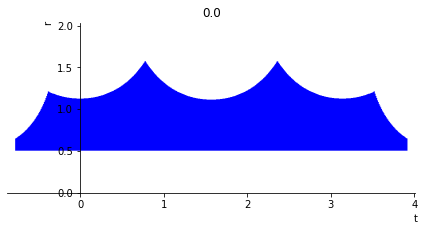
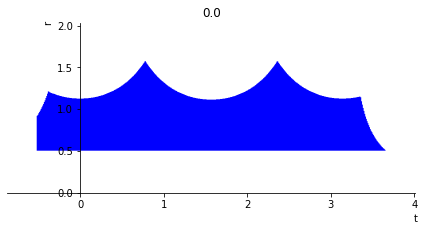
update to abs encoders, homing limit, ratios

Changed region(s): [[0.8278, 0.3939, 0.9811, 0.6667], [0.0307, 0.5152, 0.092, 0.6667]]

diff --git a/src/main/java/frc/robot/subsystems/ArmS.java b/src/main/java/frc/robot/subsystems/ArmS.java
@@ -1,27 +1,6 @@
 package frc.robot.subsystems;
 
-import static frc.robot.Constants.ArmConstants.ARM_EXTEND_KG_VERTICAL;
-import static frc.robot.Constants.ArmConstants.ARM_MASS_KG;
-import static frc.robot.Constants.ArmConstants.ARM_PIVOT_KG_MAX_EXTEND;
-import static frc.robot.Constants.ArmConstants.ARM_PIVOT_KG_MIN_EXTEND;
-import static frc.robot.Constants.ArmConstants.ARM_PIVOT_TRANSLATION;
-import static frc.robot.Constants.ArmConstants.ARM_ROTATIONS_PER_MOTOR_ROTATION;
-import static frc.robot.Constants.ArmConstants.EXTEND_DRUM_RADIUS;
-import static frc.robot.Constants.ArmConstants.EXTEND_DRUM_ROTATIONS_PER_MOTOR_ROTATION;
-import static frc.robot.Constants.ArmConstants.EXTEND_METERS_PER_DRUM_ROTATION;
-import static frc.robot.Constants.ArmConstants.EXTEND_MOTOR_ID;
-import static frc.robot.Constants.ArmConstants.HAND_LENGTH;
-import static frc.robot.Constants.ArmConstants.HAND_MASS_KG;
-import static frc.robot.Constants.ArmConstants.MAX_ARM_ANGLE;
-import static frc.robot.Constants.ArmConstants.MAX_ARM_LENGTH;
-import static frc.robot.Constants.ArmConstants.MIN_ARM_ANGLE;
-import static frc.robot.Constants.ArmConstants.MIN_ARM_LENGTH;
-import static frc.robot.Constants.ArmConstants.PIVOT_MOTOR_ID;
-import static frc.robot.Constants.ArmConstants.WRIST_KG;
-import static frc.robot.Constants.ArmConstants.WRIST_MAX_ANGLE;
-import static frc.robot.Constants.ArmConstants.WRIST_MIN_ANGLE;
-import static frc.robot.Constants.ArmConstants.WRIST_MOTOR_ID;
-import static frc.robot.Constants.ArmConstants.WRIST_ROTATIONS_PER_MOTOR_ROTATION;
+import static frc.robot.Constants.ArmConstants.*;
 
 import java.util.ArrayList;
 import java.util.List;
@@ -33,8 +12,11 @@ import com.pathplanner.lib.PathPlanner;
 import com.pathplanner.lib.PathPlannerTrajectory;
 import com.pathplanner.lib.PathPoint;
 import com.revrobotics.CANSparkMax;
+import com.revrobotics.SparkMaxAbsoluteEncoder;
+import com.revrobotics.SparkMaxLimitSwitch;
 import com.revrobotics.CANSparkMax.SoftLimitDirection;
 import com.revrobotics.CANSparkMaxLowLevel.MotorType;
+import com.revrobotics.SparkMaxLimitSwitch.Type;
 
 import edu.wpi.first.math.MathUtil;
 import edu.wpi.first.math.VecBuilder;
@@ -54,6 +36,7 @@ import edu.wpi.first.math.system.plant.DCMotor;
 import edu.wpi.first.math.system.plant.LinearSystemId;
 import edu.wpi.first.math.trajectory.TrapezoidProfile.Constraints;
 import edu.wpi.first.math.util.Units;
+import edu.wpi.first.wpilibj.DigitalInput;
 import edu.wpi.first.wpilibj.DriverStation;
 import edu.wpi.first.wpilibj.simulation.TiltedElevatorSim;
 import edu.wpi.first.wpilibj.simulation.VariableLengthArmSim;
@@ -64,8 +47,11 @@ import edu.wpi.first.wpilibj.smartdashboard.MechanismRoot2d;
 import edu.wpi.first.wpilibj.smartdashboard.SmartDashboard;
 import edu.wpi.first.wpilibj.util.Color8Bit;
 import edu.wpi.first.wpilibj2.command.Command;
+import edu.wpi.first.wpilibj2.command.InstantCommand;
 import edu.wpi.first.wpilibj2.command.SubsystemBase;
+import edu.wpi.first.wpilibj2.command.button.Trigger;
 import frc.robot.util.NomadMathUtil;
+import frc.robot.util.sim.SparkMaxAbsoluteEncoderWrapper;
 import frc.robot.util.sim.SparkMaxEncoderWrapper;
 import io.github.oblarg.oblog.Loggable;
 import io.github.oblarg.oblog.annotations.Log;
@@ -117,6 +103,7 @@ public class ArmS extends SubsystemBase implements Loggable {
     // region extend
     private final CANSparkMax m_extendMotor = new CANSparkMax(EXTEND_MOTOR_ID, MotorType.kBrushless);
     private final SparkMaxEncoderWrapper m_extendEncoderWrapper = new SparkMaxEncoderWrapper(m_extendMotor);
+    private final SparkMaxLimitSwitch m_extendHomingSwitch = m_extendMotor.getForwardLimitSwitch(Type.kNormallyClosed);
     private final LinearSystem<N2, N1, N1> m_extendPlant =
         LinearSystemId.identifyPositionSystem(
             12 / (Units.inchesToMeters(81.2)), 0.01);
@@ -145,6 +132,14 @@ public class ArmS extends SubsystemBase implements Loggable {
         m_extendMotor.setSoftLimit(SoftLimitDirection.kReverse, (float) MIN_ARM_LENGTH);
         m_extendEncoderWrapper.setPosition(MIN_ARM_LENGTH);
         m_extendController.reset(MIN_ARM_LENGTH);
+        Command homingCommand = new InstantCommand(()->{
+            m_extendEncoderWrapper.setPosition(MIN_ARM_LENGTH);
+            m_extendController.reset(MIN_ARM_LENGTH);
+            // set state to current length (just reset above) and 0 velocity
+            m_extendSim.setState(VecBuilder.fill(getLengthMeters(), 0));
+        }).ignoringDisable(true);
+        new Trigger(m_extendHomingSwitch::isPressed).debounce(0.04).and(new Trigger(DriverStation::isDisabled))
+        .onTrue(homingCommand);
     }
 
     public void extendPeriodic(){}
@@ -163,7 +158,7 @@ public class ArmS extends SubsystemBase implements Loggable {
      */
     @Log
     public double getLengthMeters() {
-        return m_extendEncoderWrapper.getPosition();
+        return Math.max(MIN_ARM_LENGTH, m_extendEncoderWrapper.getPosition());
     }
 
     /**
@@ -232,10 +227,11 @@ public class ArmS extends SubsystemBase implements Loggable {
 
     // region pivot
     private final CANSparkMax m_pivotMotor = new CANSparkMax(PIVOT_MOTOR_ID, MotorType.kBrushless);
-    private final SparkMaxEncoderWrapper m_pivotEncoderWrapper = new SparkMaxEncoderWrapper(m_pivotMotor);
+    private final CANSparkMax m_pivotFollowerMotor = new CANSparkMax(PIVOT_FOLLOWER_MOTOR_ID, MotorType.kBrushless);
+    private final SparkMaxAbsoluteEncoderWrapper m_pivotEncoderWrapper = new SparkMaxAbsoluteEncoderWrapper(m_pivotMotor, PIVOT_ENCODER_OFFSET);
 
     private LinearSystem<N2, N1, N1> m_pivotPlant = LinearSystemId.createSingleJointedArmSystem(
-        DCMotor.getNEO(2),  1.0 / 3.0 * ARM_MASS_KG * MIN_ARM_LENGTH * MIN_ARM_LENGTH
+        DCMotor.getNEO(2),  1.0 / 3.0 * ARM_MASS_KILOS * MIN_ARM_LENGTH * MIN_ARM_LENGTH
         , 1.0/ARM_ROTATIONS_PER_MOTOR_ROTATION);
 
     private DCMotor m_pivotGearbox = DCMotor.getNEO(1);
@@ -258,14 +254,15 @@ public class ArmS extends SubsystemBase implements Loggable {
      * Defines position and velocity tolerances of profiled PID controller</p>
      */
     private void initPivot() {
-        m_pivotMotor.getEncoder().setPositionConversionFactor(ARM_ROTATIONS_PER_MOTOR_ROTATION);
-        m_pivotMotor.getEncoder().setVelocityConversionFactor(ARM_ROTATIONS_PER_MOTOR_ROTATION / 60);
+        m_pivotMotor.getAbsoluteEncoder(SparkMaxAbsoluteEncoder.Type.kDutyCycle).setPositionConversionFactor(ARM_ROTATIONS_PER_MOTOR_ROTATION);
+        m_pivotMotor.getAbsoluteEncoder(SparkMaxAbsoluteEncoder.Type.kDutyCycle).setVelocityConversionFactor(ARM_ROTATIONS_PER_MOTOR_ROTATION / 60);
         m_pivotMotor.setSoftLimit(SoftLimitDirection.kForward, (float) MAX_ARM_ANGLE);
         m_pivotMotor.setSoftLimit(SoftLimitDirection.kReverse, (float) MIN_ARM_ANGLE);
 
-        m_pivotEncoderWrapper.setPosition(armStartAngle);
+        m_pivotFollowerMotor.follow(m_pivotMotor, true);
 
-        m_pivotController.reset(armStartAngle);
+
+        m_pivotController.reset(getAngle().getRadians());
         m_pivotController.setTolerance(0.05, 0.05);
     }
 
@@ -312,7 +309,7 @@ public class ArmS extends SubsystemBase implements Loggable {
 
     public double getPivotMOI() {
         // TODO get this from held piece status and length
-        return 1.0 / 3.0 * ARM_MASS_KG * getLengthMeters() * getLengthMeters();
+        return 1.0 / 3.0 * ARM_MASS_KILOS * getLengthMeters() * getLengthMeters();
     }
 
     /**
@@ -413,7 +410,7 @@ public class ArmS extends SubsystemBase implements Loggable {
     // endregion
 
     // region wrist
-    private final double wristMOI = HAND_MASS_KG * HAND_LENGTH * HAND_LENGTH / 3.0;
+    private final double wristMOI = HAND_MASS_KILOS * HAND_LENGTH * HAND_LENGTH / 3.0;
     private final CANSparkMax m_wristMotor = new CANSparkMax(WRIST_MOTOR_ID,MotorType.kBrushless);
     private final LinearSystem<N2, N1, N1> m_wristPlant = LinearSystemId.createSingleJointedArmSystem(
         DCMotor.getNEO(1), wristMOI, 1.0/WRIST_ROTATIONS_PER_MOTOR_ROTATION);
@@ -421,10 +418,9 @@ public class ArmS extends SubsystemBase implements Loggable {
     private final LinearPlantInversionFeedforward<N2, N1, N1> m_wristFeedforward
         = new LinearPlantInversionFeedforward<>(m_wristPlant, 0.02);
     
-    private final SparkMaxEncoderWrapper m_wristEncoderWrapper = new SparkMaxEncoderWrapper(m_wristMotor);
+    private final SparkMaxAbsoluteEncoderWrapper m_wristEncoderWrapper = new SparkMaxAbsoluteEncoderWrapper(m_wristMotor, WRIST_ENCODER_OFFSET);
     private final ProfiledPIDController m_wristController = new ProfiledPIDController(
         5, 0, 0, new Constraints(8, 8));
-
     /**
      * initializes wrist:
      * sets position conversion factor for the wrist motor in rotations,</p>
@@ -437,14 +433,12 @@ public class ArmS extends SubsystemBase implements Loggable {
      */
 
     public void initWrist() {
-        m_wristMotor.getEncoder().setPositionConversionFactor(WRIST_ROTATIONS_PER_MOTOR_ROTATION);
-        m_wristMotor.getEncoder().setVelocityConversionFactor(WRIST_ROTATIONS_PER_MOTOR_ROTATION / 60);
+        m_wristMotor.getAbsoluteEncoder(SparkMaxAbsoluteEncoder.Type.kDutyCycle).setPositionConversionFactor(WRIST_ROTATIONS_PER_MOTOR_ROTATION);
+        m_wristMotor.getAbsoluteEncoder(SparkMaxAbsoluteEncoder.Type.kDutyCycle).setVelocityConversionFactor(WRIST_ROTATIONS_PER_MOTOR_ROTATION / 60);
         m_wristMotor.setSoftLimit(SoftLimitDirection.kForward, (float) WRIST_MAX_ANGLE);
         m_wristMotor.setSoftLimit(SoftLimitDirection.kReverse, (float) WRIST_MIN_ANGLE);
 
-        m_wristEncoderWrapper.setPosition(0);
-
-        m_wristController.reset(0);
+        m_wristController.reset(getWristAngle().getRadians());
         m_wristController.setTolerance(0.05, 0.05);
     }
 
@@ -562,7 +556,7 @@ public class ArmS extends SubsystemBase implements Loggable {
         var target = VISUALIZER.getObject("target").getPose();
             double armAngle = target.getX();
             boolean flipArm = armAngle > Math.PI/2;
-            double wristAngle = (flipArm ? Math.PI : 0) - armAngle;
+            double wristAngle = (flipArm ? Math.PI : 0) - getAngle().getRadians();
             setPivotAngle(armAngle);
             setExtendLength(target.getY());
             setWristAngle(wristAngle);
@@ -578,11 +572,11 @@ public class ArmS extends SubsystemBase implements Loggable {
         m_pivotPlant,
         DCMotor.getNEO(1),
         1.0/ARM_ROTATIONS_PER_MOTOR_ROTATION,
-        1.0 / 3.0 * ARM_MASS_KG * MIN_ARM_LENGTH * MIN_ARM_LENGTH,
+        1.0 / 3.0 * ARM_MASS_KILOS * MIN_ARM_LENGTH * MIN_ARM_LENGTH,
         MIN_ARM_LENGTH,
         MIN_ARM_ANGLE,
         MAX_ARM_ANGLE,
-        ARM_MASS_KG,
+        ARM_MASS_KILOS,
         true
     );
 
@@ -598,7 +592,7 @@ public class ArmS extends SubsystemBase implements Loggable {
         DCMotor.getNEO(1),
         1.0 / WRIST_ROTATIONS_PER_MOTOR_ROTATION,
         wristMOI, HAND_LENGTH,
-        WRIST_MIN_ANGLE, WRIST_MAX_ANGLE, HAND_MASS_KG, true);
+        WRIST_MIN_ANGLE, WRIST_MAX_ANGLE, HAND_MASS_KILOS, true);
     
     /**
      * initializes simulation:

diff --git a/src/main/java/frc/robot/Constants.java b/src/main/java/frc/robot/Constants.java
@@ -109,7 +109,7 @@ public class Constants {
 
         public static final Transform3d robotToCam = new Transform3d(
             new Translation3d(Units.inchesToMeters(8.5), Units.inchesToMeters(6.75), Units.inchesToMeters(10.375)), 
-            new Rotation3d(Units.degreesToRadians(0) , Units.degreesToRadians(10),Units.degreesToRadians(-50) ));
+            new Rotation3d(Units.degreesToRadians(-3) , Units.degreesToRadians(10),Units.degreesToRadians(-37) ));
         public static AprilTagFieldLayout TAG_FIELD_LAYOUT = new AprilTagFieldLayout(
             List.of(
                 new AprilTag(
@@ -173,32 +173,36 @@ public class Constants {
 
         public static final Translation2d ARM_PIVOT_TRANSLATION = new Translation2d(0, Units.inchesToMeters(18));
         
-        public static final double EXTEND_DRUM_RADIUS = Units.inchesToMeters(1);
-        public static final double EXTEND_DRUM_ROTATIONS_PER_MOTOR_ROTATION = 1.0/14.667;
+        public static final double EXTEND_DRUM_RADIUS = Units.inchesToMeters(1.751/2);
+        public static final double EXTEND_DRUM_ROTATIONS_PER_MOTOR_ROTATION = 1.0/16.0;
         public static final double EXTEND_METERS_PER_DRUM_ROTATION = Math.PI * 2 * EXTEND_DRUM_RADIUS;
 
         public static final double ARM_EXTEND_KG_VERTICAL = 0.2;
         /* PIVOT */
-        public static final double MIN_ARM_ANGLE = Units.degreesToRadians(-45);
-        public static final double MAX_ARM_ANGLE = Units.degreesToRadians(225);
-        public static final double ARM_ROTATIONS_PER_MOTOR_ROTATION = 1.0/400.0;
+        public static final double MIN_ARM_ANGLE = Units.degreesToRadians(-30);
+        public static final double MAX_ARM_ANGLE = Units.degreesToRadians(210);
+        public static final double ARM_ROTATIONS_PER_MOTOR_ROTATION = (1.0/25.0) * (16.0/60.0);
 
-        public static final double ARM_MASS_KG = 20;
+        public static final double PIVOT_ENCODER_OFFSET = 0;
+
+        public static final double ARM_MASS_KILOS = 20;
         
-
-        public static final int PIVOT_MOTOR_ID = 21;
-        public static final double ARM_PIVOT_KG_MIN_EXTEND = 1.414 / 2 / Math.cos(Units.degreesToRadians(10.5));
-        public static final double ARM_PIVOT_KG_MAX_EXTEND = 2.872 / 2 / Math.cos(Units.degreesToRadians(10.5));
+        public static final int PIVOT_MOTOR_ID = 22;
+        public static final int PIVOT_FOLLOWER_MOTOR_ID = 23;
+        public static final double ARM_PIVOT_KG_MIN_EXTEND = 1.414 * (ARM_ROTATIONS_PER_MOTOR_ROTATION * 400) / 2 / Math.cos(Units.degreesToRadians(10.5));
+        public static final double ARM_PIVOT_KG_MAX_EXTEND = 2.872 * (ARM_ROTATIONS_PER_MOTOR_ROTATION * 400) / 2 / Math.cos(Units.degreesToRadians(10.5));
 
         /* WRIST/HAND */
 
         // Wrist angle is relative to the extension of the telescope.
         // I.e. 0 is straight out from the pivot.
         // positive angles match pivot (up and over, with 0 being straight out the robot front)
-        public static final int WRIST_MOTOR_ID = 22;
+        public static final int WRIST_MOTOR_ID = 25;
         public static final double WRIST_ROTATIONS_PER_MOTOR_ROTATION = 0.2;
+        public static final double WRIST_ENCODER_OFFSET = 0;
         public static final double HAND_LENGTH = Units.inchesToMeters(16);
-        public static final double HAND_MASS_KG = 5;
+        public static final double HAND_MASS_KILOS = 5;
+        // 3/8 of a circle, 135°
         public static final double WRIST_MIN_ANGLE = -3 * Math.PI/4;
         public static final double WRIST_MAX_ANGLE = 3 * Math.PI/4;
         public static final double WRIST_KG = 5.744 * 1.6;
@@ -207,7 +211,7 @@ public class Constants {
     }
 
 
-    public static final class IntakeConstants{
+    public static final class IntakeConstants {
         public static final int INTAKE_CAN_ID = 30; 
         public static final double INTAKE_VOLTAGE = 6.995;
         public static final int INTAKE_EXTEND = 2;

diff --git a/src/main/java/frc/robot/subsystems/ArmConstraintsManager.java b/src/main/java/frc/robot/subsystems/ArmConstraintsManager.java
@@ -13,9 +13,8 @@ public class ArmConstraintsManager {
     Field2d VISUALIZER;
     Translation2d[] constraintsHalf = 
     {
-        new Translation2d(3.919000,0.503000),//0
-        new Translation2d(3.921000,0.642000),//1
-        new Translation2d(3.691000,0.820000),//2
+        new Translation2d(3.659000,0.503000),//0
+        new Translation2d(3.659000,0.887000),//2
         new Translation2d(3.519000,1.198000),//3
         new Translation2d(3.213000,1.118000),//4
         new Translation2d(2.905000,1.154000),//5
@@ -35,6 +34,9 @@ public class ArmConstraintsManager {
         for (int i = constraintsHalf.length - 1; i >= 0; i--) {
             constraints[(constraints.length - i) - 1] = new Translation2d( Math.PI -constraintsHalf[i].getX(), constraintsHalf[i].getY());
         }
+        // Override for the hand motor stack minimum height limit
+        constraints[1] = new Translation2d(3.438, 0.808);
+        constraints[2] = new Translation2d(3.361, 1.155);
         setTranslationList(constraints, "constraints");
     }
 
